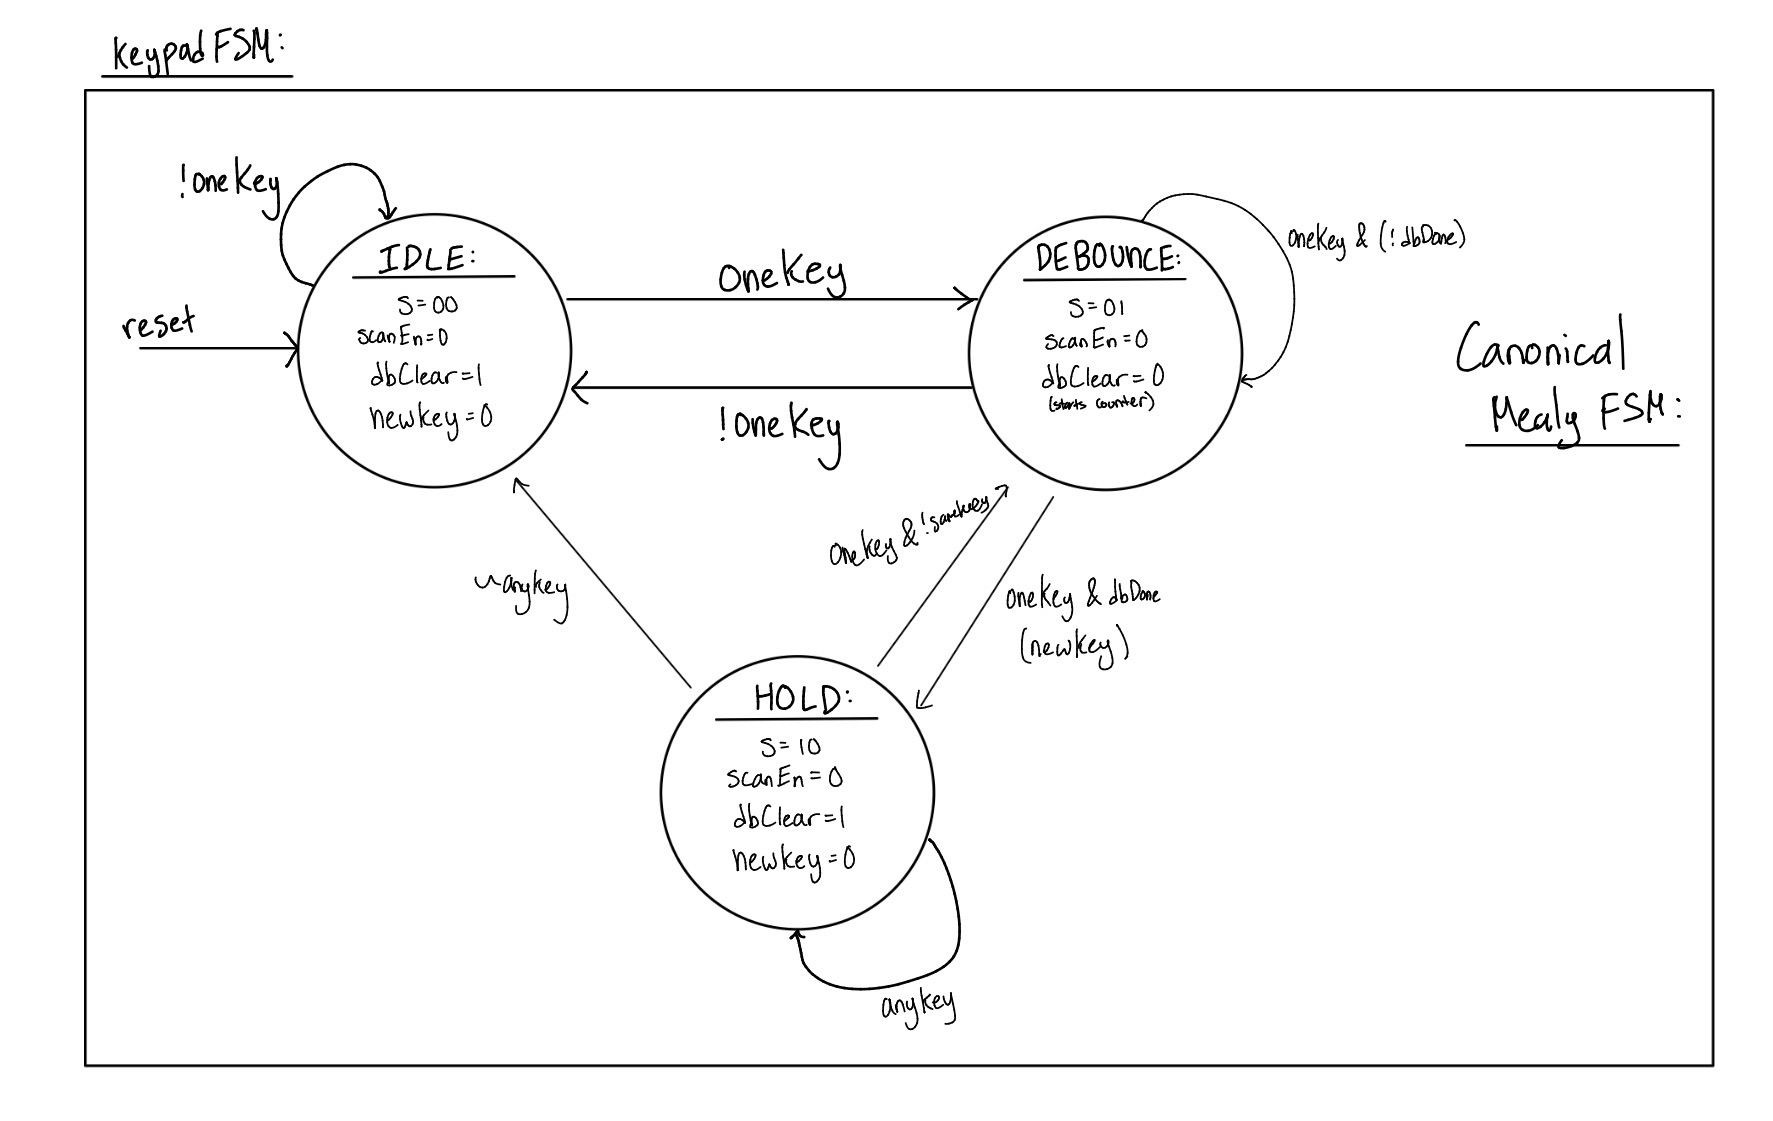
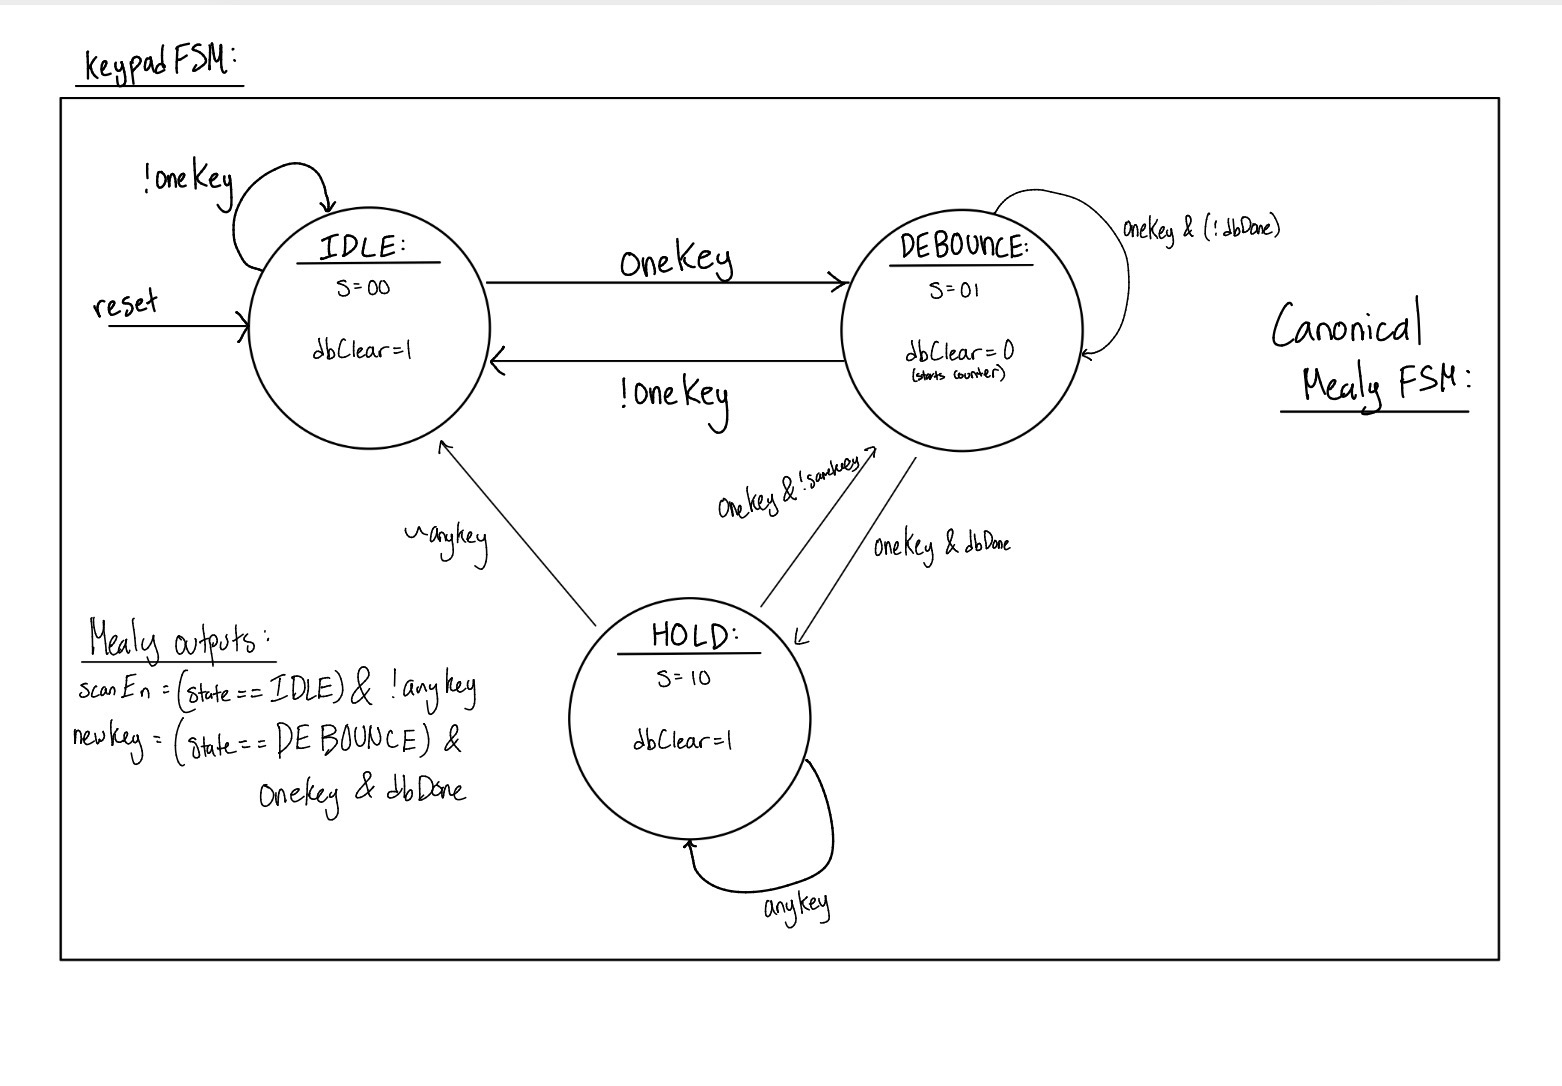
Built site for gh-pages

diff --git a/labs/lab3/lab3.html b/labs/lab3/lab3.html
@@ -360,7 +360,7 @@ pre > code.sourceCode > span > a:first-child::before { text-decoration: underlin
   <li><a href="#design-and-testing-methodology" id="toc-design-and-testing-methodology" class="nav-link" data-scroll-target="#design-and-testing-methodology">Design and Testing Methodology</a>
   <ul class="collapse">
   <li><a href="#fpga-implementation" id="toc-fpga-implementation" class="nav-link" data-scroll-target="#fpga-implementation">FPGA Implementation</a></li>
-  <li><a href="#fsm-partitioning" id="toc-fsm-partitioning" class="nav-link" data-scroll-target="#fsm-partitioning">FSM Partitioning</a></li>
+  <li><a href="#fsm-communication" id="toc-fsm-communication" class="nav-link" data-scroll-target="#fsm-communication">FSM Communication</a></li>
   <li><a href="#switch-debouncing-strategy" id="toc-switch-debouncing-strategy" class="nav-link" data-scroll-target="#switch-debouncing-strategy">Switch Debouncing Strategy</a></li>
   </ul></li>
   <li><a href="#technical-documentation" id="toc-technical-documentation" class="nav-link" data-scroll-target="#technical-documentation">Technical Documentation:</a>
@@ -493,92 +493,20 @@ Table&nbsp;1: Digital Inputs and Outputs for Lab 3
 </figure>
 </div>
 </section>
-<section id="fsm-partitioning" class="level3">
-<h3 class="anchored" data-anchor-id="fsm-partitioning">FSM Partitioning</h3>
-<p>The design is split into a single, small control FSM (<code>keypadFSM</code>) and a set of datapath blocks that it coordinates. The FSM decides <em>when</em> things happen, and the datapath blocks do the counting, decoding, and storing:</p>
-<div id="tbl-fsm-signals" class="quarto-float quarto-figure quarto-figure-center anchored">
-<figure class="quarto-float quarto-float-tbl figure">
-<figcaption class="quarto-float-caption-top quarto-float-caption quarto-float-tbl" id="tbl-fsm-signals-caption-0ceaefa1-69ba-4598-a22c-09a6ac19f8ca">
-Table&nbsp;2: Signals passed between the keypad FSM and the datapath
-</figcaption>
-<div aria-describedby="tbl-fsm-signals-caption-0ceaefa1-69ba-4598-a22c-09a6ac19f8ca">
-<table class="caption-top table">
-<colgroup>
-<col style="width: 13%">
-<col style="width: 16%">
-<col style="width: 16%">
-<col style="width: 52%">
-</colgroup>
-<thead>
-<tr class="header">
-<th>Signal</th>
-<th>From</th>
-<th>To</th>
-<th>Purpose</th>
-</tr>
-</thead>
-<tbody>
-<tr class="odd">
-<td><code>anyKey</code>, <code>oneKey</code></td>
-<td><code>keyDecoder</code></td>
-<td><code>keypadFSM</code></td>
-<td>At least one / exactly one column is low on the active row</td>
-</tr>
-<tr class="even">
-<td><code>sameKey</code></td>
-<td>comparator (<code>sNew == s2</code>)</td>
-<td><code>keypadFSM</code></td>
-<td>The decoded key matches the most recently stored digit</td>
-</tr>
-<tr class="odd">
-<td><code>scanEn</code></td>
-<td><code>keypadFSM</code></td>
-<td><code>scanning</code></td>
-<td>Lets the row scanner advance; freezes it on the active row while a key is down</td>
-</tr>
-<tr class="even">
-<td><code>dbClear</code></td>
-<td><code>keypadFSM</code></td>
-<td><code>debounceTimer</code></td>
-<td>Holds the timer at zero outside of DEBOUNCE</td>
-</tr>
-<tr class="odd">
-<td><code>dbDone</code></td>
-<td><code>debounceTimer</code></td>
-<td><code>keypadFSM</code></td>
-<td>The key has been stable for the full debounce period</td>
-</tr>
-<tr class="even">
-<td><code>newKey</code></td>
-<td><code>keypadFSM</code></td>
-<td><code>digitRegister</code></td>
-<td>One-cycle enable that shifts the new digit in</td>
-</tr>
-</tbody>
-</table>
-</div>
-</figure>
-</div>
-<p>The scanner, debounce timer, and display multiplexer are all instances of the same parameterized <code>counter</code>, so the only custom sequential control logic is the three-state FSM. The display multiplexer runs freely and does not talk to the FSM at all, so the display keeps refreshing no matter what the keypad is doing.</p>
-<p>The alternative would be a single monolithic FSM that also encodes the row being scanned and the debounce count in its state, e.g.&nbsp;separate IDLE/DEBOUNCE/HOLD states for each of the four rows. That removes the handshake signals between modules, but it multiplies the number of states and transitions, making the state transition diagram much harder to specify completely and verify. Another option is to split scanning and debouncing into two communicating FSMs. That is more modular, but it adds a handshake between two state machines and more ways for them to fall out of sync. Keeping one small FSM with counter-based helpers made each piece easy to test on its own (see the testbench results below). The cost is a few extra inter-module signals and a Mealy output (<code>newKey</code>) that depends combinationally on <code>dbDone</code>. Every consumer of that output is synchronous, so combinational glitches never get registered.</p>
+<section id="fsm-communication" class="level3">
+<h3 class="anchored" data-anchor-id="fsm-communication">FSM Communication</h3>
+<p>The design is made up of five communicating FSMs:</p>
+<ul>
+<li><strong>Keypad FSM (<code>keypadFSM</code>):</strong> the main controller, which decides when to scan, debounce, and register a key.</li>
+<li><strong>Scanning sequence (<code>scanning</code>):</strong> cycles through the keypad rows. The keypad FSM stops it on the active row with <code>scanEn</code> when a key is pressed.</li>
+<li><strong>Debounce timer (<code>debounceTimer</code>):</strong> counts while the keypad FSM is in DEBOUNCE, and sends <code>dbDone</code> when the time is up.</li>
+<li><strong>Digit register (<code>digitRegister</code>):</strong> stores the last two keys pressed, and shifts in a new digit when the keypad FSM pulses <code>newKey</code>.</li>
+<li><strong>Display multiplexing:</strong> alternates between the two digits stored in the digit register on the dual seven-segment display.</li>
+</ul>
 </section>
 <section id="switch-debouncing-strategy" class="level3">
 <h3 class="anchored" data-anchor-id="switch-debouncing-strategy">Switch Debouncing Strategy</h3>
-<p>The keypad columns are first passed through a two-flop <code>synchronizer</code> to resolve metastability, since key presses are asynchronous to the 24 MHz clock. Debouncing is then done with a <em>stable-for-a-period</em> strategy:</p>
-<ol type="1">
-<li>When exactly one key is detected in IDLE, the FSM freezes the scanner on that row (<code>scanEn = 0</code>) and moves to DEBOUNCE, releasing <code>dbClear</code> so the <code>debounceTimer</code> starts counting.</li>
-<li>The key must stay continuously pressed (<code>oneKey</code>) for 480,000 clock cycles (20 ms at 24 MHz). If it bounces open at any point, the FSM returns to IDLE and the timer is cleared, so the next contact restarts the full 20 ms count.</li>
-<li>Only when <code>dbDone</code> arrives while the key is still pressed does the FSM pulse <code>newKey</code> and move to HOLD, where it waits for the key to be released. A held key is therefore registered exactly once.</li>
-</ol>
-<p>Release bounce is handled implicitly: the FSM drops from HOLD to IDLE as soon as the key opens, but any bounce that looks like a new press has to survive another full 20 ms in DEBOUNCE before it counts, which bounce never does.</p>
-<p>Other approaches considered:</p>
-<ul>
-<li><strong>Register immediately, then ignore input for a lockout period.</strong> This has almost no latency, but a single noise glitch registers as a keypress. The chosen method only accepts a key after it has been proven stable.</li>
-<li><strong>Slow sampling</strong> (e.g.&nbsp;only sampling the keypad every 20 ms). This is simple and cheap, but a press can be sampled mid-bounce, and response time varies by up to a full sample period.</li>
-<li><strong>Shift-register or saturating up/down integrator per column.</strong> This is robust to noise, but needs per-column state and more logic. The FSM approach shares one timer across the whole keypad because only one key is being debounced at a time.</li>
-<li><strong>Analog RC filter with a Schmitt trigger.</strong> This takes no FPGA logic, but it needs extra components on every column and the time constant is fixed in hardware.</li>
-</ul>
-<p>The tradeoff of the chosen approach is a fixed 20 ms latency before a press is registered, which is imperceptible to a user, plus a 19-bit counter.</p>
+<p>When a key is pressed, the keypad FSM waits for the duration of a typical button bounce (20 ms, or 480,000 clock cycles at 24 MHz). Once that time has passed, the debounce timer sends <code>dbDone</code> to tell the FSM to continue and register the key.</p>
 </section>
 </section>
 <section id="technical-documentation" class="level2">
@@ -648,7 +576,7 @@ Figure&nbsp;1: Top-level block diagram of <code>lab3_jg</code>, showing the sync
 <img src="images/fsm.jpeg" class="img-fluid figure-img">
 </div>
 <figcaption class="quarto-float-caption-bottom quarto-float-caption quarto-float-fig" id="fig-fsm-caption-0ceaefa1-69ba-4598-a22c-09a6ac19f8ca">
-Figure&nbsp;2: State transition diagram of the keypad FSM (a Mealy machine) with IDLE, DEBOUNCE, and HOLD states.
+Figure&nbsp;2: State transition diagram of the keypad FSM, a Mealy machine with IDLE (<code>00</code>), DEBOUNCE (<code>01</code>), and HOLD (<code>10</code>) states, showing the <code>dbClear</code> output of each state and the Mealy outputs <code>scanEn</code> and <code>newKey</code>.
 </figcaption>
 </figure>
 </div>
@@ -658,45 +586,10 @@ Figure&nbsp;2: State transition diagram of the keypad FSM (a Mealy machine) with
 </section>
 <section id="state-transition-table" class="level3">
 <h3 class="anchored" data-anchor-id="state-transition-table">State Transition Table</h3>
-<div id="tbl-state-encoding" class="quarto-float quarto-figure quarto-figure-center anchored">
-<figure class="quarto-float quarto-float-tbl figure">
-<figcaption class="quarto-float-caption-top quarto-float-caption quarto-float-tbl" id="tbl-state-encoding-caption-0ceaefa1-69ba-4598-a22c-09a6ac19f8ca">
-Table&nbsp;3: Keypad FSM state encoding
-</figcaption>
-<div aria-describedby="tbl-state-encoding-caption-0ceaefa1-69ba-4598-a22c-09a6ac19f8ca">
-<table class="caption-top table">
-<thead>
-<tr class="header">
-<th>State</th>
-<th>Encoding</th>
-</tr>
-</thead>
-<tbody>
-<tr class="odd">
-<td>IDLE</td>
-<td><code>00</code></td>
-</tr>
-<tr class="even">
-<td>DEBOUNCE</td>
-<td><code>01</code></td>
-</tr>
-<tr class="odd">
-<td>HOLD</td>
-<td><code>10</code></td>
-</tr>
-<tr class="even">
-<td><em>unused</em></td>
-<td><code>11</code> → IDLE</td>
-</tr>
-</tbody>
-</table>
-</div>
-</figure>
-</div>
 <div id="tbl-state-transition" class="quarto-float quarto-figure quarto-figure-center anchored">
 <figure class="quarto-float quarto-float-tbl figure">
 <figcaption class="quarto-float-caption-top quarto-float-caption quarto-float-tbl" id="tbl-state-transition-caption-0ceaefa1-69ba-4598-a22c-09a6ac19f8ca">
-Table&nbsp;4: Keypad FSM next-state and output table
+Table&nbsp;2: Keypad FSM next-state and output table
 </figcaption>
 <div aria-describedby="tbl-state-transition-caption-0ceaefa1-69ba-4598-a22c-09a6ac19f8ca">
 <table class="caption-top table">
@@ -791,26 +684,11 @@ Table&nbsp;4: Keypad FSM next-state and output table
 <td>1</td>
 <td>0</td>
 </tr>
-<tr class="even">
-<td><code>11</code></td>
-<td>—</td>
-<td>IDLE</td>
-<td>0</td>
-<td>1</td>
-<td>0</td>
-</tr>
 </tbody>
 </table>
 </div>
 </figure>
 </div>
-<p>The outputs are:</p>
-<ul>
-<li><code>scanEn = (state == IDLE) &amp; !anyKey</code></li>
-<li><code>dbClear = (state != DEBOUNCE)</code></li>
-<li><code>newKey = (state == DEBOUNCE) &amp; oneKey &amp; dbDone</code></li>
-</ul>
-<p><code>scanEn</code> and <code>newKey</code> depend on the inputs, which makes this a Mealy machine. The HOLD → DEBOUNCE transition handles key rollover: if a second key is held and the first is released, the new key is debounced and registered without all keys having to be released first.</p>
 </section>
 <section id="synthesis-results" class="level3">
 <h3 class="anchored" data-anchor-id="synthesis-results">Synthesis Results</h3>
